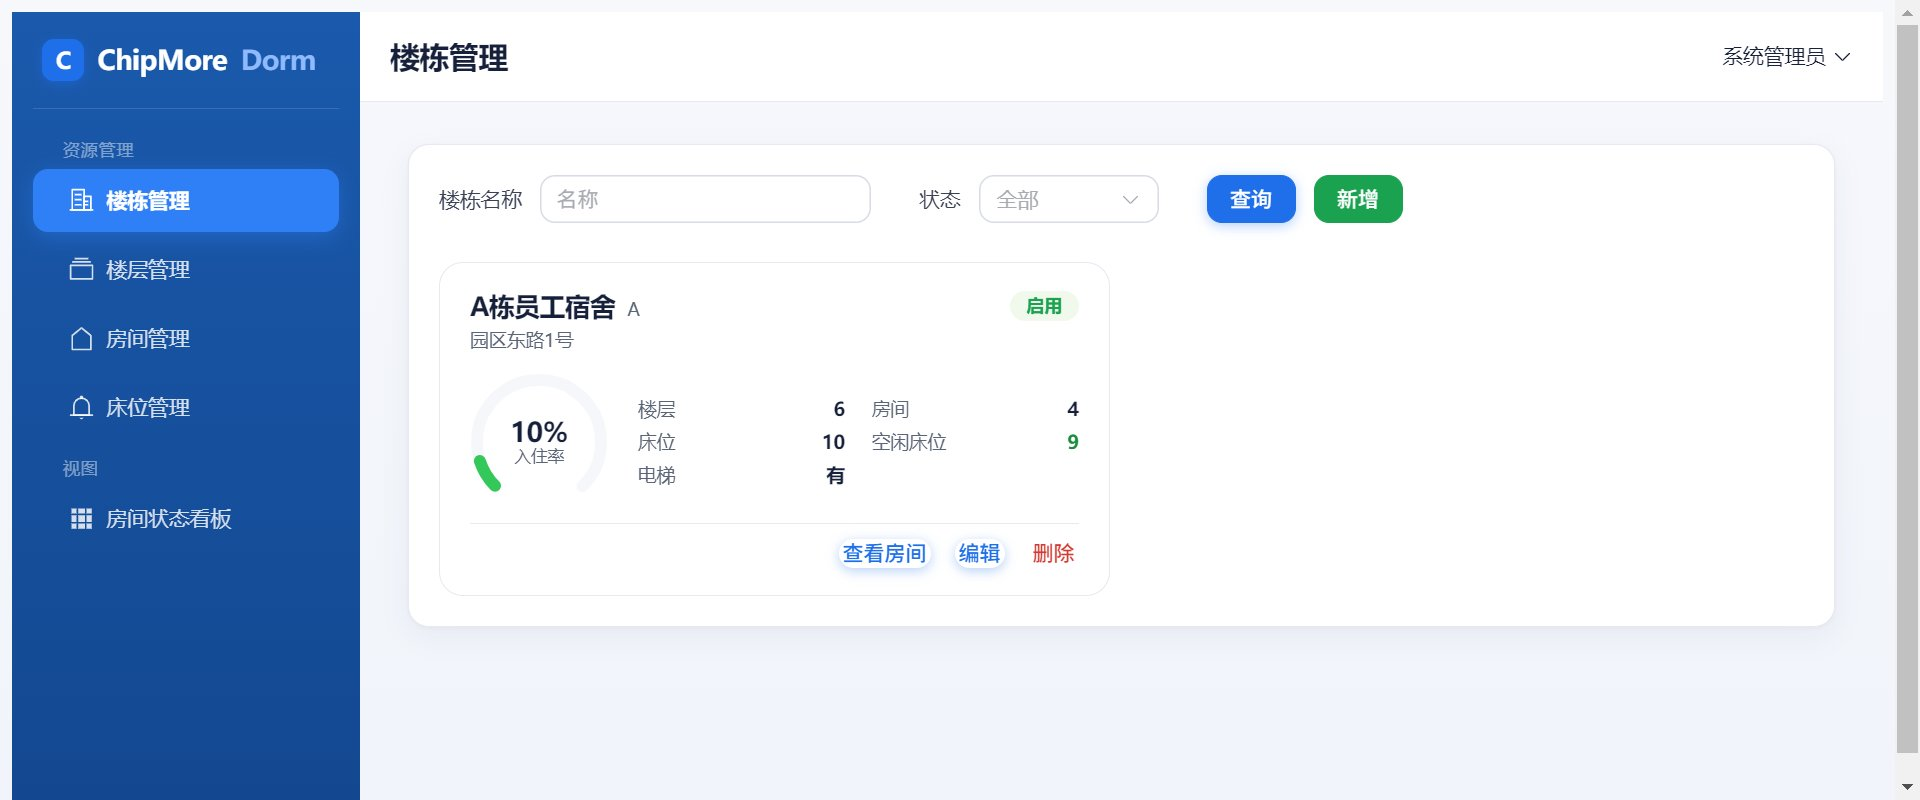
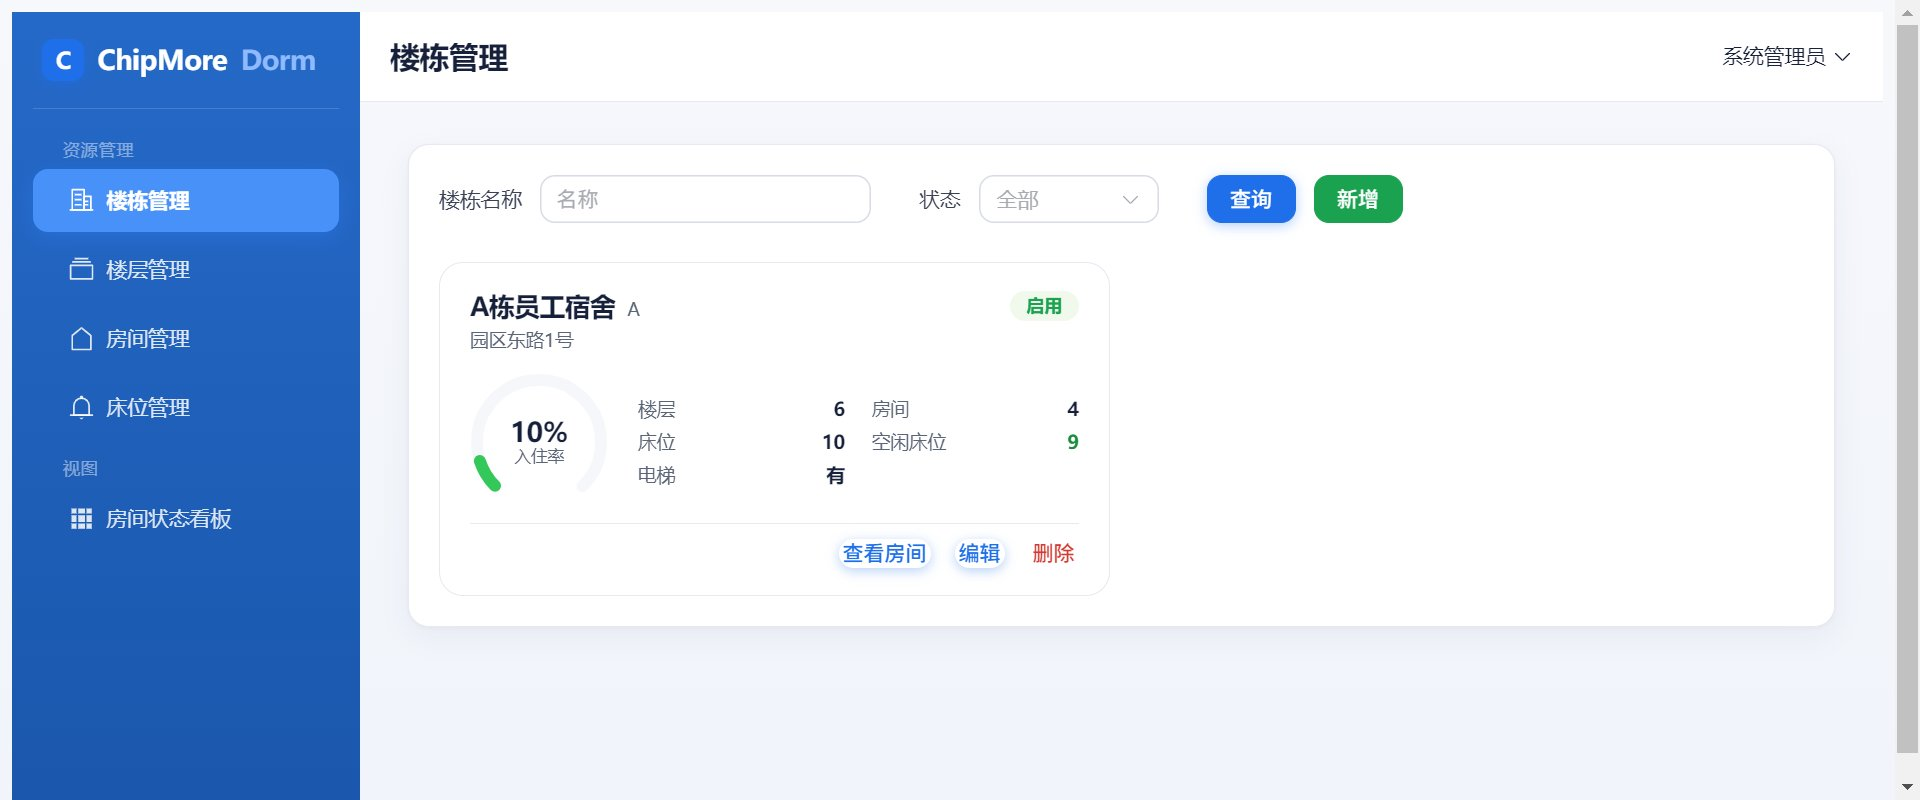
feat(fe): 登录页适配蓝主题 + 侧栏再提亮 + P2P 参考图留档
- 登录页重做为「左深蓝品牌栏 + 右白卡表单」分栏，左侧复用侧栏蓝并含
  logo 标 / 大标题 / 功能勾选清单 / 版权；删除已废弃的 login-bg.svg
- 侧栏按反馈再提亮：top #2569c8 / bottom #1a57ac / 选中 #4791f8
- P2P 系统风格参考图（10 张）入库 docs/style-previews/ 留档
- 真机验证零报错，新增 blue-applied-login 截图

Changed region(s): [[0.0, 0.0, 0.1875, 1.0]]

diff --git a/dms-frontend/src/views/login/index.vue b/dms-frontend/src/views/login/index.vue
@@ -1,25 +1,40 @@
 <template>
-  <div class="login-container">
-    <div class="brand">
-      <div class="wordmark">ChipMore <span>Dorm</span></div>
-      <p class="tagline">宿舍资源，一目了然</p>
-      <p class="desc">楼栋 · 楼层 · 房间 · 床位 · 状态看板</p>
+  <div class="login-page">
+    <!-- 左：深蓝品牌栏 -->
+    <div class="brand-panel">
+      <div class="brand-top">
+        <span class="brand-mark">C</span>
+        <span class="brand-word">ChipMore <span class="accent">Dorm</span></span>
+      </div>
+      <div class="brand-mid">
+        <h1>宿舍资源，<br />一目了然</h1>
+        <p class="tagline">楼栋 · 楼层 · 房间 · 床位 · 状态看板</p>
+        <ul class="feat">
+          <li>实时入住率与床位占用看板</li>
+          <li>楼栋 / 楼层 / 房间 / 床位 全链路管理</li>
+          <li>多条件筛选，宿管一眼掌握全局</li>
+        </ul>
+      </div>
+      <p class="brand-foot">© ChipMore Dorm · 宿舍管理系统</p>
     </div>
 
-    <el-card class="login-card">
-      <h2 class="title">登录</h2>
-      <p class="subtitle">使用管理员账号进入系统</p>
-      <el-form ref="formRef" :model="form" :rules="rules" @keyup.enter="onSubmit">
-        <el-form-item prop="username">
-          <el-input v-model="form.username" placeholder="用户名" :prefix-icon="User" size="large" />
-        </el-form-item>
-        <el-form-item prop="password">
-          <el-input v-model="form.password" type="password" placeholder="密码" :prefix-icon="Lock" show-password size="large" />
-        </el-form-item>
-        <el-button type="primary" size="large" :loading="loading" style="width: 100%" @click="onSubmit">登录</el-button>
-      </el-form>
-      <p class="hint">演示账号：admin / admin123</p>
-    </el-card>
+    <!-- 右：登录表单 -->
+    <div class="form-panel">
+      <div class="login-card">
+        <h2 class="title">欢迎登录</h2>
+        <p class="subtitle">使用管理员账号进入系统</p>
+        <el-form ref="formRef" :model="form" :rules="rules" @keyup.enter="onSubmit">
+          <el-form-item prop="username">
+            <el-input v-model="form.username" placeholder="用户名" :prefix-icon="User" size="large" />
+          </el-form-item>
+          <el-form-item prop="password">
+            <el-input v-model="form.password" type="password" placeholder="密码" :prefix-icon="Lock" show-password size="large" />
+          </el-form-item>
+          <el-button type="primary" size="large" :loading="loading" style="width: 100%" @click="onSubmit">登 录</el-button>
+        </el-form>
+        <p class="hint">演示账号：admin / admin123</p>
+      </div>
+    </div>
   </div>
 </template>
 
@@ -58,85 +73,116 @@ async function onSubmit() {
 </script>
 
 <style scoped>
-.login-container {
+.login-page {
   height: 100vh;
   display: flex;
-  align-items: center;
-  justify-content: center;
-  gap: clamp(48px, 9vw, 160px);
-  padding: 24px;
-  background-image: url('@/assets/login-bg.svg');
-  background-size: cover;
-  background-position: center;
 }
 
-/* 品牌区 */
-.brand { max-width: 520px; }
-.wordmark {
-  font-size: clamp(44px, 5.2vw, 64px);
-  font-weight: 700;
-  letter-spacing: -0.035em;
-  color: var(--dms-ink);
-  line-height: 1.05;
+/* ===== 左：深蓝品牌栏 ===== */
+.brand-panel {
+  flex: 0 0 46%;
+  position: relative;
+  overflow: hidden;
+  background: linear-gradient(155deg, var(--dms-nav-top) 0%, var(--dms-nav-bottom) 70%, #103f80 100%);
+  color: #fff;
+  padding: 48px 56px;
+  display: flex;
+  flex-direction: column;
 }
-.wordmark span {
-  background: linear-gradient(92deg, #0071e3 10%, #6e8bff 55%, #38b6d8 95%);
-  -webkit-background-clip: text;
-  background-clip: text;
-  color: transparent;
+/* 柔光装饰 */
+.brand-panel::before,
+.brand-panel::after {
+  content: '';
+  position: absolute;
+  border-radius: 50%;
+  filter: blur(8px);
+  pointer-events: none;
+}
+.brand-panel::before {
+  width: 460px; height: 460px;
+  top: -160px; right: -120px;
+  background: radial-gradient(circle, rgba(122, 173, 255, 0.45), transparent 62%);
+}
+.brand-panel::after {
+  width: 360px; height: 360px;
+  bottom: -120px; left: -100px;
+  background: radial-gradient(circle, rgba(71, 145, 248, 0.35), transparent 60%);
+}
+.brand-top {
+  position: relative; z-index: 1;
+  display: flex; align-items: center; gap: 11px;
+  font-size: 21px; font-weight: 700; letter-spacing: -0.02em;
+}
+.brand-mark {
+  width: 34px; height: 34px; border-radius: 9px;
+  background: rgba(255, 255, 255, 0.16);
+  border: 1px solid rgba(255, 255, 255, 0.3);
+  display: flex; align-items: center; justify-content: center;
+  font-size: 18px; font-weight: 800;
+}
+.brand-word .accent { color: #9fc4ff; }
+.brand-mid {
+  position: relative; z-index: 1;
+  margin-top: auto; margin-bottom: auto;
+}
+.brand-mid h1 {
+  font-size: clamp(34px, 3.6vw, 50px);
+  font-weight: 700; line-height: 1.12; letter-spacing: -0.03em;
+  margin: 0 0 18px;
 }
 .tagline {
-  margin: 18px 0 6px;
-  font-size: 20px;
-  font-weight: 500;
-  color: var(--dms-ink);
-  letter-spacing: -0.01em;
+  font-size: 16px; color: rgba(255, 255, 255, 0.78);
+  letter-spacing: 0.01em; margin: 0 0 30px;
 }
-.desc {
-  margin: 0;
-  font-size: 14px;
-  color: var(--dms-ink-2);
-  letter-spacing: 0.02em;
+.feat { list-style: none; padding: 0; margin: 0; }
+.feat li {
+  position: relative;
+  padding-left: 26px; margin-bottom: 14px;
+  font-size: 14.5px; color: rgba(255, 255, 255, 0.9);
+}
+.feat li::before {
+  content: ''; position: absolute; left: 0; top: 6px;
+  width: 14px; height: 8px;
+  border-left: 2px solid #9fc4ff; border-bottom: 2px solid #9fc4ff;
+  transform: rotate(-45deg);
+}
+.brand-foot {
+  position: relative; z-index: 1;
+  font-size: 12.5px; color: rgba(255, 255, 255, 0.55); margin: 0;
 }
 
-/* 登录卡 */
+/* ===== 右：登录表单 ===== */
+.form-panel {
+  flex: 1;
+  display: flex; align-items: center; justify-content: center;
+  background: linear-gradient(180deg, var(--dms-bg-top), var(--dms-bg-bottom));
+  padding: 24px;
+}
 .login-card {
-  width: 400px;
-  flex-shrink: 0;
-  border-radius: 24px;
-  border: 1px solid rgba(255, 255, 255, 0.65);
-  background: rgba(255, 255, 255, 0.62);
-  backdrop-filter: blur(36px) saturate(1.7);
-  box-shadow: 0 24px 70px rgba(29, 79, 138, 0.16);
-  padding: 16px 10px;
+  width: 380px;
+  background: #fff;
+  border: 1px solid var(--dms-hairline);
+  border-radius: 18px;
+  box-shadow: var(--dms-shadow-card);
+  padding: 38px 36px 30px;
 }
 .title {
-  margin: 4px 0 4px;
-  font-size: 26px;
-  font-weight: 700;
-  letter-spacing: -0.02em;
+  margin: 0 0 6px;
+  font-size: 26px; font-weight: 700; letter-spacing: -0.02em;
   color: var(--dms-ink);
 }
 .subtitle {
-  margin: 0 0 22px;
-  font-size: 13.5px;
-  color: var(--dms-ink-2);
-}
-.login-card :deep(.el-input__wrapper) {
-  background: rgba(255, 255, 255, 0.8);
+  margin: 0 0 26px;
+  font-size: 13.5px; color: var(--dms-ink-2);
 }
 .hint {
-  text-align: center;
-  color: var(--dms-ink-2);
-  font-size: 12px;
-  margin: 14px 0 0;
+  text-align: center; color: var(--dms-ink-2);
+  font-size: 12px; margin: 16px 0 0;
 }
 
-/* 窄屏：竖排，隐藏副描述 */
-@media (max-width: 860px) {
-  .login-container { flex-direction: column; gap: 28px; }
-  .brand { text-align: center; }
-  .desc { display: none; }
-  .login-card { width: min(400px, 92vw); }
+/* 窄屏：隐藏品牌栏，仅留表单 */
+@media (max-width: 820px) {
+  .brand-panel { display: none; }
+  .login-card { width: min(380px, 92vw); }
 }
 </style>

diff --git a/dms-frontend/src/styles/theme.css b/dms-frontend/src/styles/theme.css
@@ -20,14 +20,14 @@
   --dms-bad: #d23b34;
   --dms-hold: #2f6fbe;
 
-  /* 蓝色侧栏色板（提亮版） */
-  --dms-nav-top: #1a59ac;
-  --dms-nav-bottom: #134890;
-  --dms-nav-text: rgba(255, 255, 255, 0.82);
+  /* 蓝色侧栏色板（再提亮版） */
+  --dms-nav-top: #2569c8;
+  --dms-nav-bottom: #1a57ac;
+  --dms-nav-text: rgba(255, 255, 255, 0.85);
   --dms-nav-text-strong: #ffffff;
-  --dms-nav-active: #2f80f7;
-  --dms-nav-hover: rgba(255, 255, 255, 0.12);
-  --dms-nav-divider: rgba(255, 255, 255, 0.14);
+  --dms-nav-active: #4791f8;
+  --dms-nav-hover: rgba(255, 255, 255, 0.14);
+  --dms-nav-divider: rgba(255, 255, 255, 0.16);
 
   /* 几何 */
   --dms-radius-card: 14px;

diff --git a/docs/PROGRESS.md b/docs/PROGRESS.md
@@ -12,8 +12,11 @@
 - 落地 3 处（保留所有 `--dms-*` 变量名，业务页零改动）：
   - `src/styles/theme.css`：令牌全面调色——主题蓝 `--dms-accent:#1f6feb`、冷调浅灰底、毛玻璃卡→干净白卡（去 backdrop-filter）、新增侧栏色板 `--dms-nav-*`（提亮版 top `#1a59ac`/bottom `#134890`、选中 `#2f80f7`）、Element Plus primary 变量改蓝、状态色微调。
   - `src/layout/index.vue`：侧栏深蓝实色渐变 + 白字、品牌加圆角 logo 块「C」、菜单按 `el-menu-item-group` 分「资源管理/视图」、选中项亮蓝填充块、顶栏纯白。
-- 真实前端验证：登录→楼栋(卡片)→看板，控制台零报错。截图 `docs/style-previews/blue-applied-{buildings,board}.jpeg`。
-- 待办：用户用 GitHub Desktop 推送 `feat/ui-blue-theme` 并建 PR（CLI 推送被防火墙拦，`gh` 未装）。P2P 参考图暂留未跟踪。
+  - 侧栏亮度按用户两次反馈逐步提亮，最终 top `#2569c8`/bottom `#1a57ac`/选中 `#4791f8`。
+  - `src/views/login/index.vue`：登录页重做为「左深蓝品牌栏 + 右白卡表单」分栏（左侧复用 `--dms-nav-*`，含 logo 标/大标题/功能勾选清单/版权），删除旧 `login-bg.svg`（已废弃）。
+- 真实前端验证：登录→楼栋(卡片)→看板，控制台零报错。截图 `docs/style-previews/blue-applied-{login,buildings,board}.jpeg`。
+- P2P 参考图（`docs/style-previews/P2PStyle*.png`，10 张）已留档入库。
+- 待办：用户用 GitHub Desktop 推送 `feat/ui-blue-theme` 并建 PR（CLI 推送被防火墙拦，`gh` 未装）。
 
 ### 合并状态（已全部进 main）
 - PR #1：后端 DEMO（merge a0df189）
@@ -26,9 +29,6 @@
 2. 从最新 `main` 切新功能分支再开发（本地 main 已建好跟踪 origin/main）。
 3. 启动服务验证：后端 `cd dms-backend && mvn spring-boot:run`（:8080），前端 `cd dms-frontend && npm run dev`（:5173）；admin/admin123。
 4. 下一步方向未定（增强项已全部完成）。可选：第二阶段业务模块（入住/退宿/费用…，需先头脑风暴）、接 MySQL/Docker 部署、或继续打磨。开工时问用户。
-
-### 待整理
-- `docs/style-previews/P2PStyle1~10.png`：未跟踪的风格参考图，尚未确认用途/去留。
 
 ### 已完成全景（feat/demo-frontend）
 - 前端 DEMO 实现（脚手架→API/store/路由→登录+外壳→楼栋/楼层/房间/床位/看板），E2E 联调通过